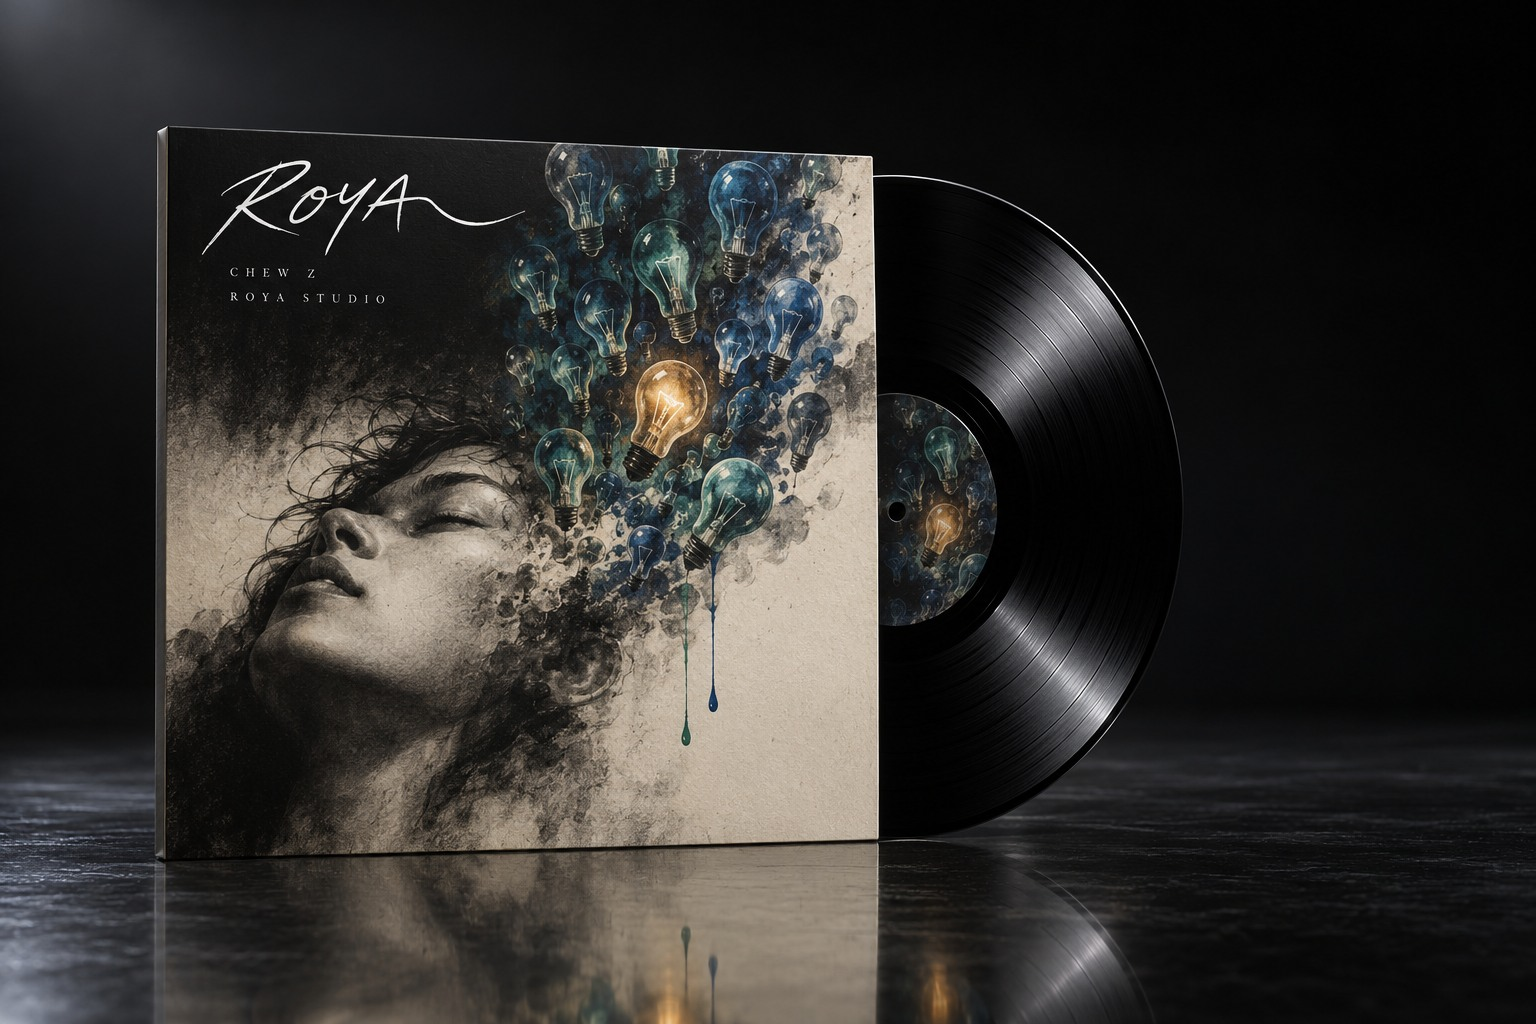
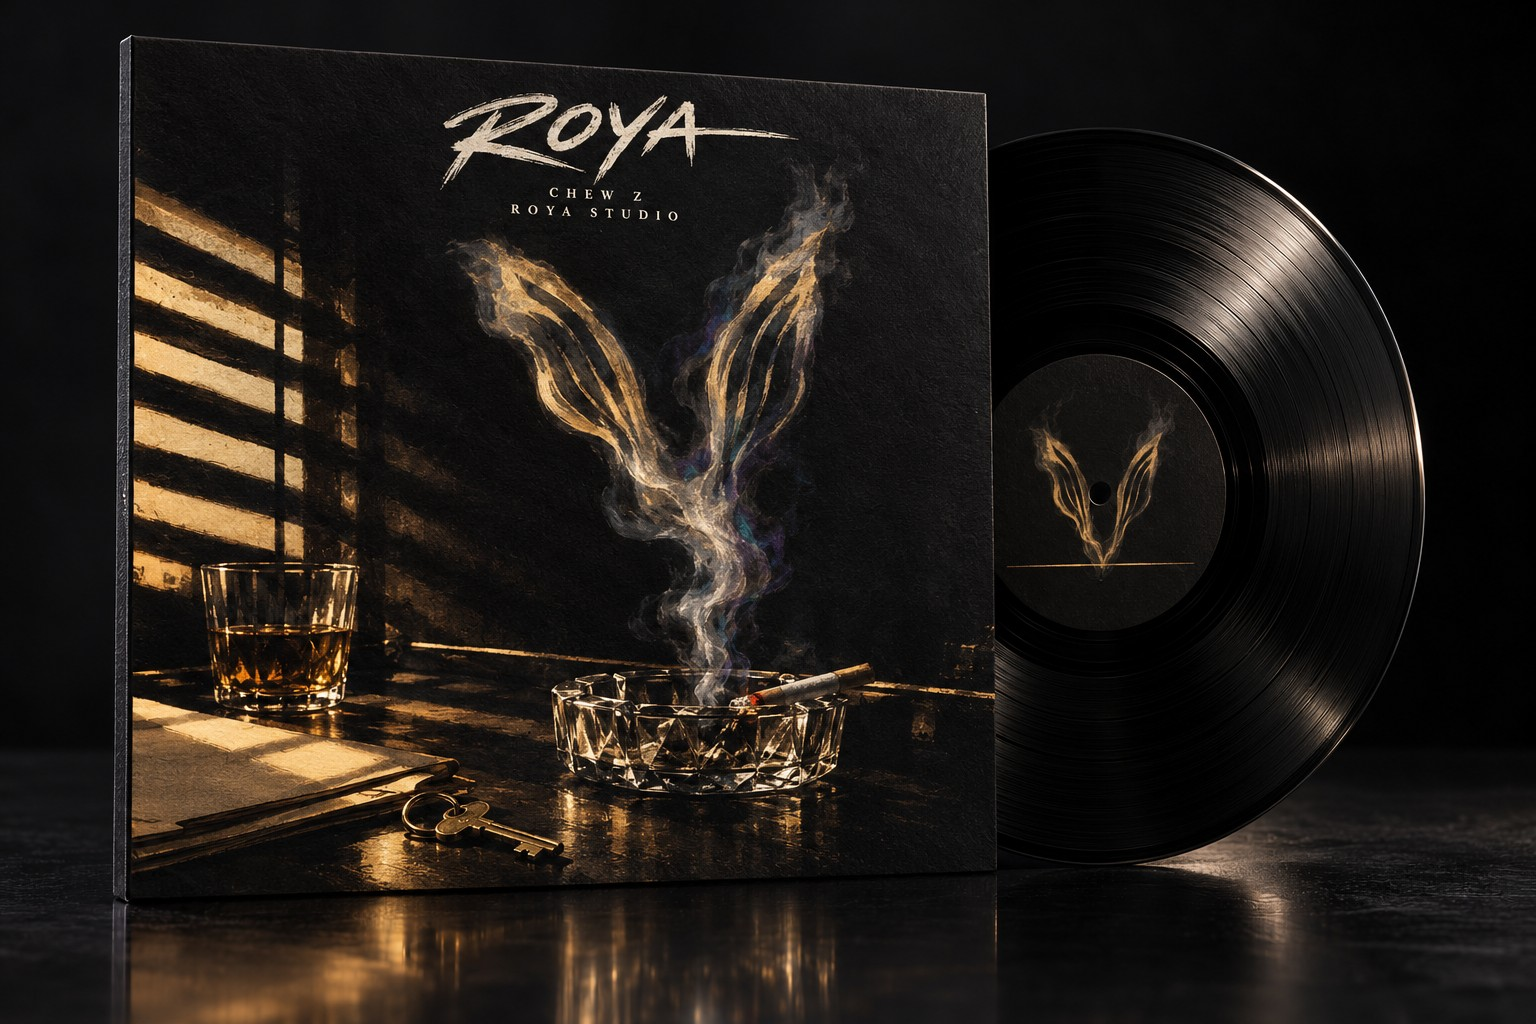
roya-sleeve

diff --git a/index.html b/index.html
@@ -2,7 +2,7 @@
 <html lang="en">
 <head>
 <meta charset="utf-8">
-<!-- Version 723 · last updated 2026-11-02 14:15 PST
+<!-- Version 724 · last updated 2026-11-02 15:40 PST
 <!-- The page opens zoomed out a little, so a phone shows a whole card —
      picture, title and summary — instead of most of one. 0.85 is the
      dial: 1 is the browser's own scale, lower shows more and sets the
@@ -166,10 +166,10 @@
      preloads — and the handful further down on assets/intro, assets/
      lrseries and assets/overrides are all separate, and lag
      deliberately. See README.md. -->
-<link rel="stylesheet" href="style.css?v=690">
+<link rel="stylesheet" href="style.css?v=691">
 <!-- The Roya Library. Loaded after style.css: every rule in it is scoped
      to #royaLibrary, so it cannot reach the page around it. -->
-<link rel="stylesheet" href="library/roya-library.css?v=690">
+<link rel="stylesheet" href="library/roya-library.css?v=691">
 <link rel="stylesheet" href="assets/intro/intro.css?v=9">
 <!-- The Listening Room's series filter. Loaded after roya-library.css
      because it leans on that file's own picker rules (.pickbox, .pick-btn,
@@ -1334,9 +1334,9 @@
   <p class="rec-toast" id="recToast" role="status" hidden></p>
   <input class="rec-share-out" id="recShareOut" readonly hidden aria-label="Share link">
 
-<script src="stories.js?v=690"></script>
-<script src="songs.js?v=690"></script>
-<script src="script.js?v=690"></script>
+<script src="stories.js?v=691"></script>
+<script src="songs.js?v=691"></script>
+<script src="script.js?v=691"></script>
 <!-- Stage 3. This one line is what points the nav item at the Roya Library
      instead of the old All Covers overlay. Remove it and the section goes
      back to being reachable only at ?library=1; the overlay is still in the
@@ -1352,7 +1352,7 @@
      Delete this one line and the site is exactly as it was: the old page
      first, with the Library one click away under ROYA LIBRARY in the nav. -->
 <script>window.ROYA_LIBRARY_HOME = true;</script>
-<script src="library/roya-library.js?v=690"></script>
+<script src="library/roya-library.js?v=691"></script>
 <script src="assets/intro/intro.js?v=4" defer></script>
 <!-- The Listening Room's series filter. It adds a control to a section that
      library/roya-library.js draws, and that file is generated from a sandbox

diff --git a/share/song-02-01-dont-come-to-the-door.html b/share/song-02-01-dont-come-to-the-door.html
@@ -1,6 +1,7 @@
 <!DOCTYPE html>
 <html lang="en">
 <head>
+<!-- Version 2 · last updated 2026-11-02 15:40 PST — og:image re-stamped for the new Roya sleeve -->
 <meta charset="utf-8">
 <meta name="viewport" content="width=device-width, initial-scale=1">
 <title>Don’t Come to the Door — Chew Z</title>
@@ -16,8 +17,8 @@
 <meta property="og:url" content="https://www.chewzfiction.com/#song-02-01">
 <meta property="og:title" content="Don’t Come to the Door — Chew Z">
 <meta property="og:description" content="From Roya, out of Roya Publication No. 119. A mother at the piano telling a child to stay asleep, through four verses, while something happens in the courtyard she isn't hearing. The fifth verse unsays every one of the first four.">
-<meta property="og:image" content="https://www.chewzfiction.com/albums/card/02.jpg?v=663">
-<meta property="og:image:secure_url" content="https://www.chewzfiction.com/albums/card/02.jpg?v=663">
+<meta property="og:image" content="https://www.chewzfiction.com/albums/card/02.jpg?v=691">
+<meta property="og:image:secure_url" content="https://www.chewzfiction.com/albums/card/02.jpg?v=691">
 <meta property="og:image:type" content="image/jpeg">
 <meta property="og:image:width" content="1200">
 <meta property="og:image:height" content="630">
@@ -26,7 +27,7 @@
 <meta name="twitter:card" content="summary_large_image">
 <meta name="twitter:title" content="Don’t Come to the Door — Chew Z">
 <meta name="twitter:description" content="From Roya, out of Roya Publication No. 119. A mother at the piano telling a child to stay asleep, through four verses, while something happens in the courtyard she isn't hearing. The fifth verse unsays every one of the first four.">
-<meta name="twitter:image" content="https://www.chewzfiction.com/albums/card/02.jpg?v=663">
+<meta name="twitter:image" content="https://www.chewzfiction.com/albums/card/02.jpg?v=691">
 
 <!-- Two ways on, because one of them can fail. The refresh works with
      JavaScript turned off; the script runs first when it isn't, and

diff --git a/share/album-02-roya.html b/share/album-02-roya.html
@@ -1,6 +1,7 @@
 <!DOCTYPE html>
 <html lang="en">
 <head>
+<!-- Version 2 · last updated 2026-11-02 15:40 PST — og:image re-stamped for the new Roya sleeve -->
 <meta charset="utf-8">
 <meta name="viewport" content="width=device-width, initial-scale=1">
 <title>Roya — Chew Z</title>
@@ -16,8 +17,8 @@
 <meta property="og:url" content="https://www.chewzfiction.com/#album-02">
 <meta property="og:title" content="Roya — Chew Z">
 <meta property="og:description" content="The two songs taken straight out of the books. A lullaby from Bright Mercy, book No. 2, that a crowd sings itself into the dark with, and what Laleh sings at the end of The Light Is Yours to Take, book No. 119. This one grows as the books do.">
-<meta property="og:image" content="https://www.chewzfiction.com/albums/card/02.jpg?v=663">
-<meta property="og:image:secure_url" content="https://www.chewzfiction.com/albums/card/02.jpg?v=663">
+<meta property="og:image" content="https://www.chewzfiction.com/albums/card/02.jpg?v=691">
+<meta property="og:image:secure_url" content="https://www.chewzfiction.com/albums/card/02.jpg?v=691">
 <meta property="og:image:type" content="image/jpeg">
 <meta property="og:image:width" content="1200">
 <meta property="og:image:height" content="630">
@@ -26,7 +27,7 @@
 <meta name="twitter:card" content="summary_large_image">
 <meta name="twitter:title" content="Roya — Chew Z">
 <meta name="twitter:description" content="The two songs taken straight out of the books. A lullaby from Bright Mercy, book No. 2, that a crowd sings itself into the dark with, and what Laleh sings at the end of The Light Is Yours to Take, book No. 119. This one grows as the books do.">
-<meta name="twitter:image" content="https://www.chewzfiction.com/albums/card/02.jpg?v=663">
+<meta name="twitter:image" content="https://www.chewzfiction.com/albums/card/02.jpg?v=691">
 
 <!-- Two ways on, because one of them can fail. The refresh works with
      JavaScript turned off; the script runs first when it isn't, and

diff --git a/share/song-02-02-bright-mercy.html b/share/song-02-02-bright-mercy.html
@@ -1,6 +1,7 @@
 <!DOCTYPE html>
 <html lang="en">
 <head>
+<!-- Version 2 · last updated 2026-11-02 15:40 PST — og:image re-stamped for the new Roya sleeve -->
 <meta charset="utf-8">
 <meta name="viewport" content="width=device-width, initial-scale=1">
 <title>Bright Mercy — Chew Z</title>
@@ -16,8 +17,8 @@
 <meta property="og:url" content="https://www.chewzfiction.com/#song-02-02">
 <meta property="og:title" content="Bright Mercy — Chew Z">
 <meta property="og:description" content="From Roya, out of Roya Publication No. 2. The four-note lullaby from No. 2, the one engineered to survive a listener's fear. Sung by a whole lakebed on the last night, it stops being a lullaby and becomes permission.">
-<meta property="og:image" content="https://www.chewzfiction.com/albums/card/02.jpg?v=663">
-<meta property="og:image:secure_url" content="https://www.chewzfiction.com/albums/card/02.jpg?v=663">
+<meta property="og:image" content="https://www.chewzfiction.com/albums/card/02.jpg?v=691">
+<meta property="og:image:secure_url" content="https://www.chewzfiction.com/albums/card/02.jpg?v=691">
 <meta property="og:image:type" content="image/jpeg">
 <meta property="og:image:width" content="1200">
 <meta property="og:image:height" content="630">
@@ -26,7 +27,7 @@
 <meta name="twitter:card" content="summary_large_image">
 <meta name="twitter:title" content="Bright Mercy — Chew Z">
 <meta name="twitter:description" content="From Roya, out of Roya Publication No. 2. The four-note lullaby from No. 2, the one engineered to survive a listener's fear. Sung by a whole lakebed on the last night, it stops being a lullaby and becomes permission.">
-<meta name="twitter:image" content="https://www.chewzfiction.com/albums/card/02.jpg?v=663">
+<meta name="twitter:image" content="https://www.chewzfiction.com/albums/card/02.jpg?v=691">
 
 <!-- Two ways on, because one of them can fail. The refresh works with
      JavaScript turned off; the script runs first when it isn't, and
